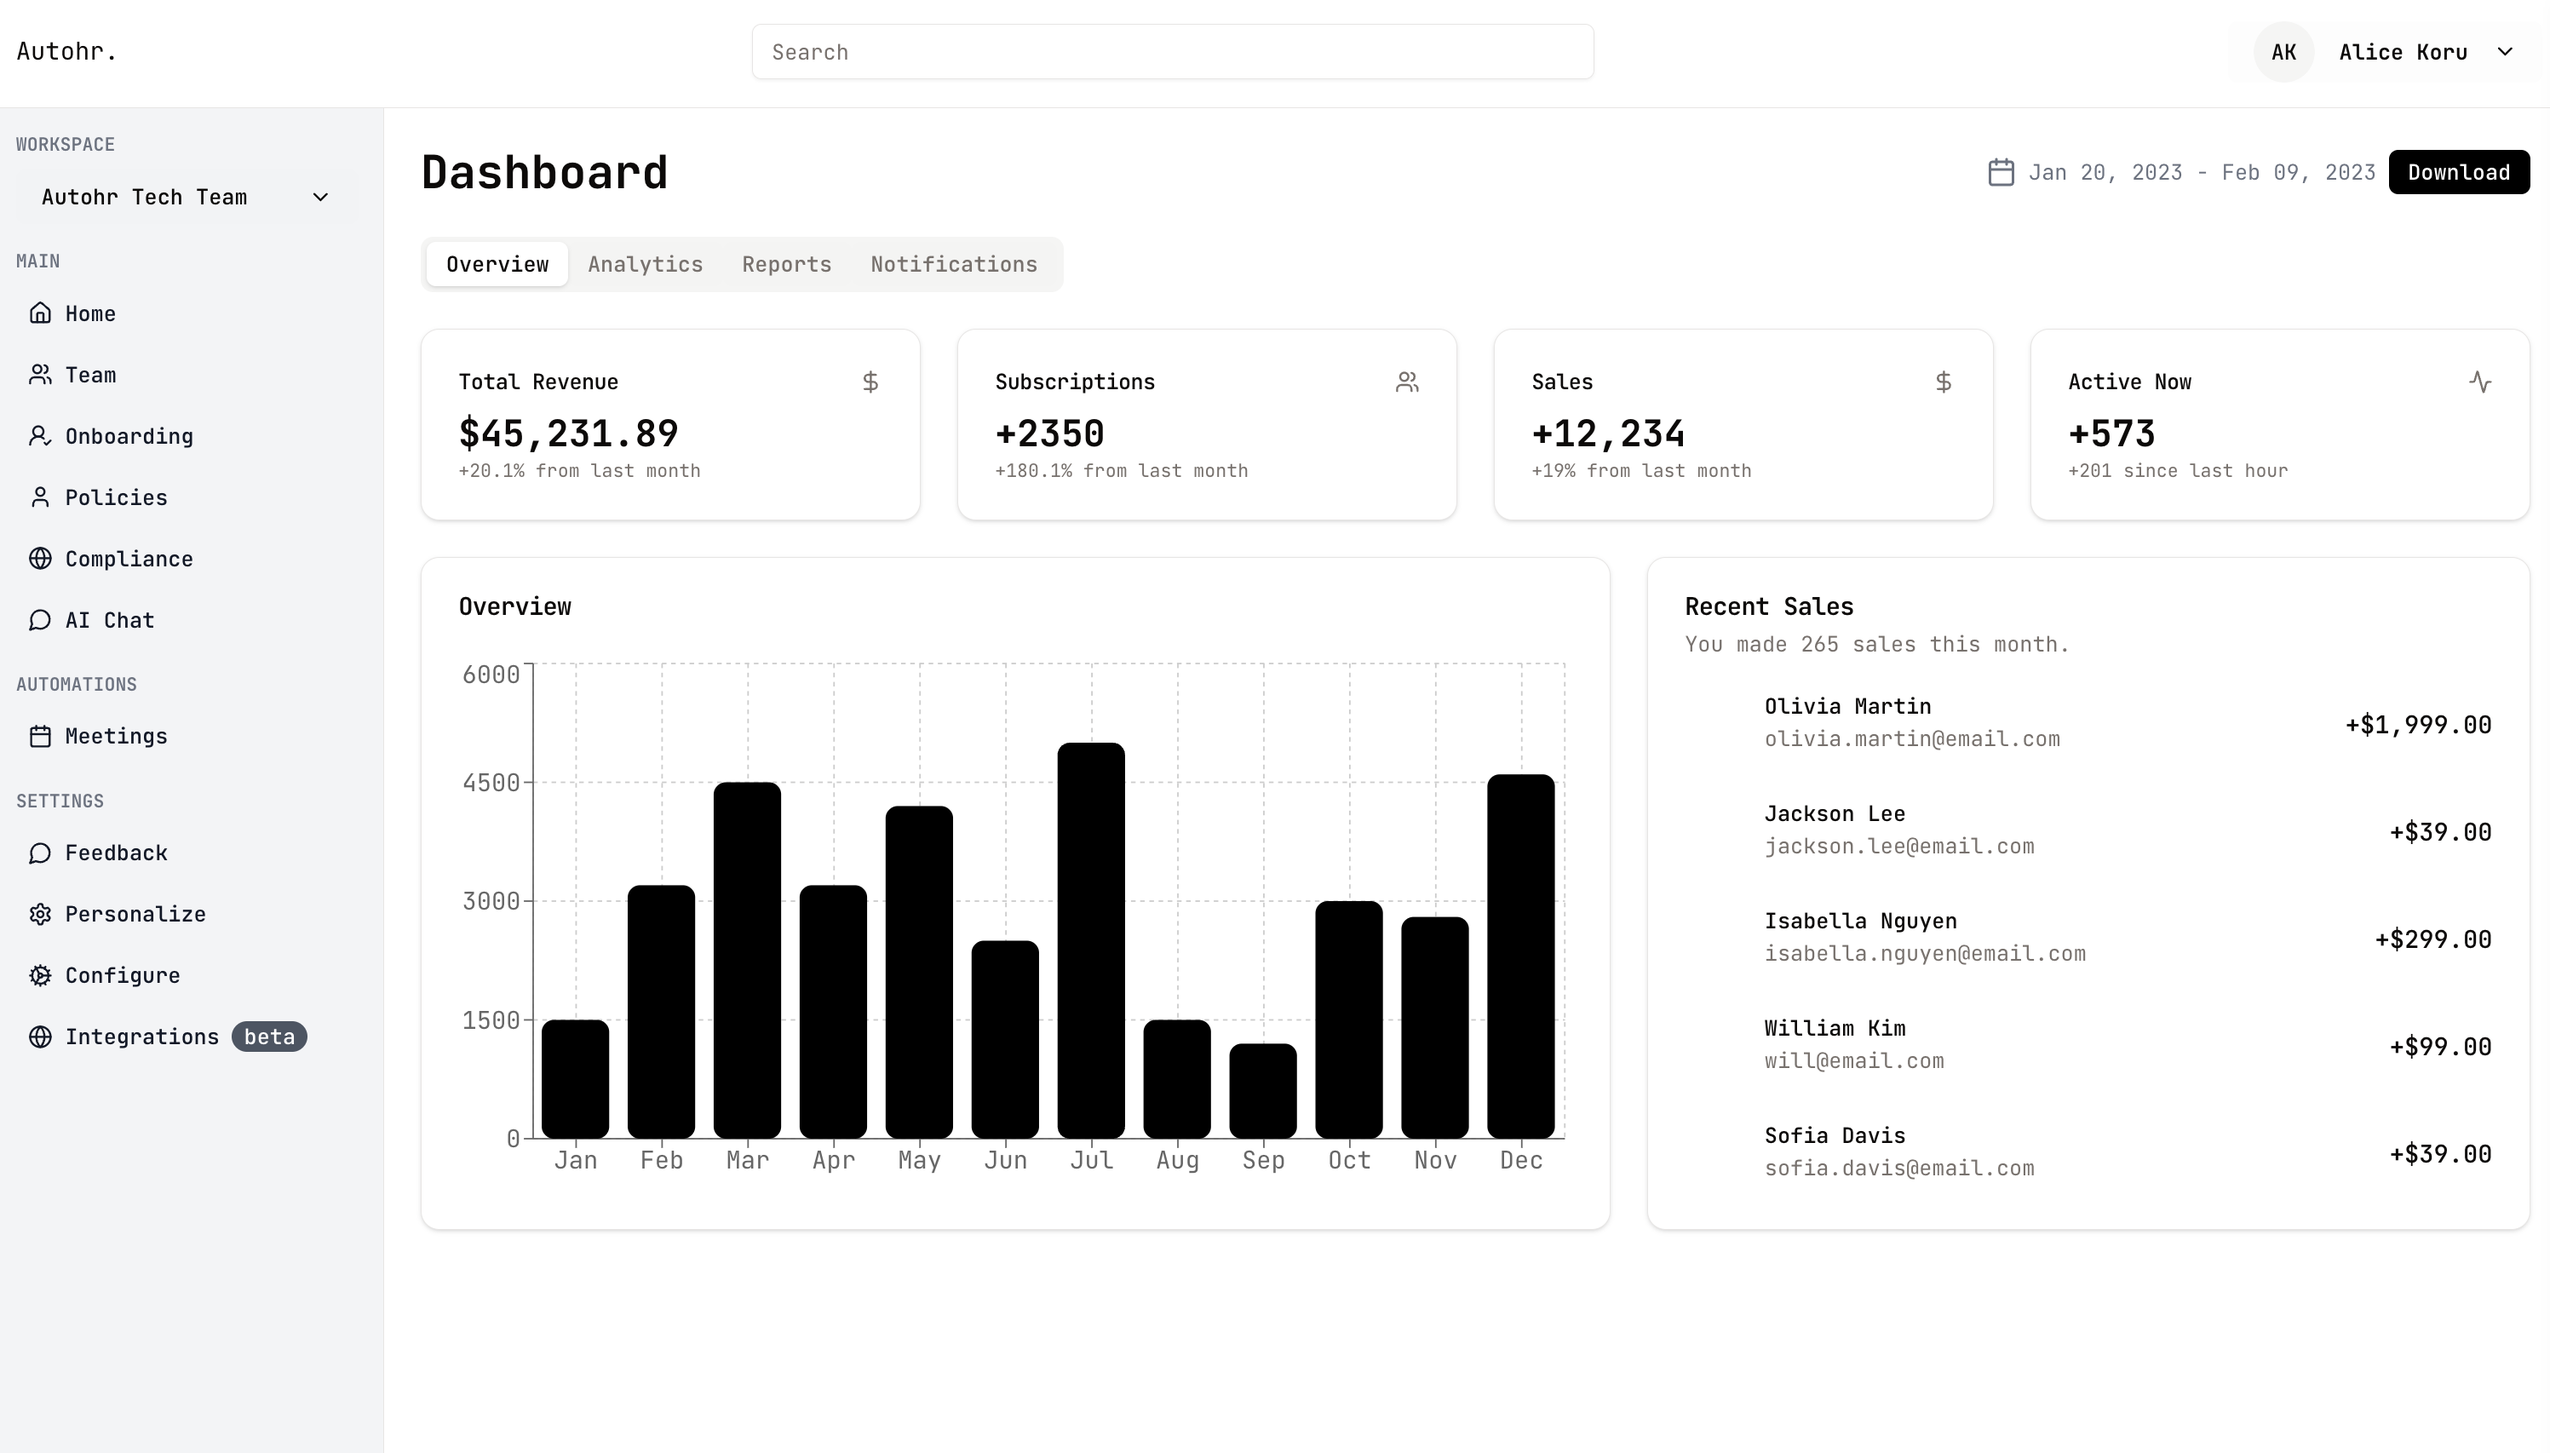
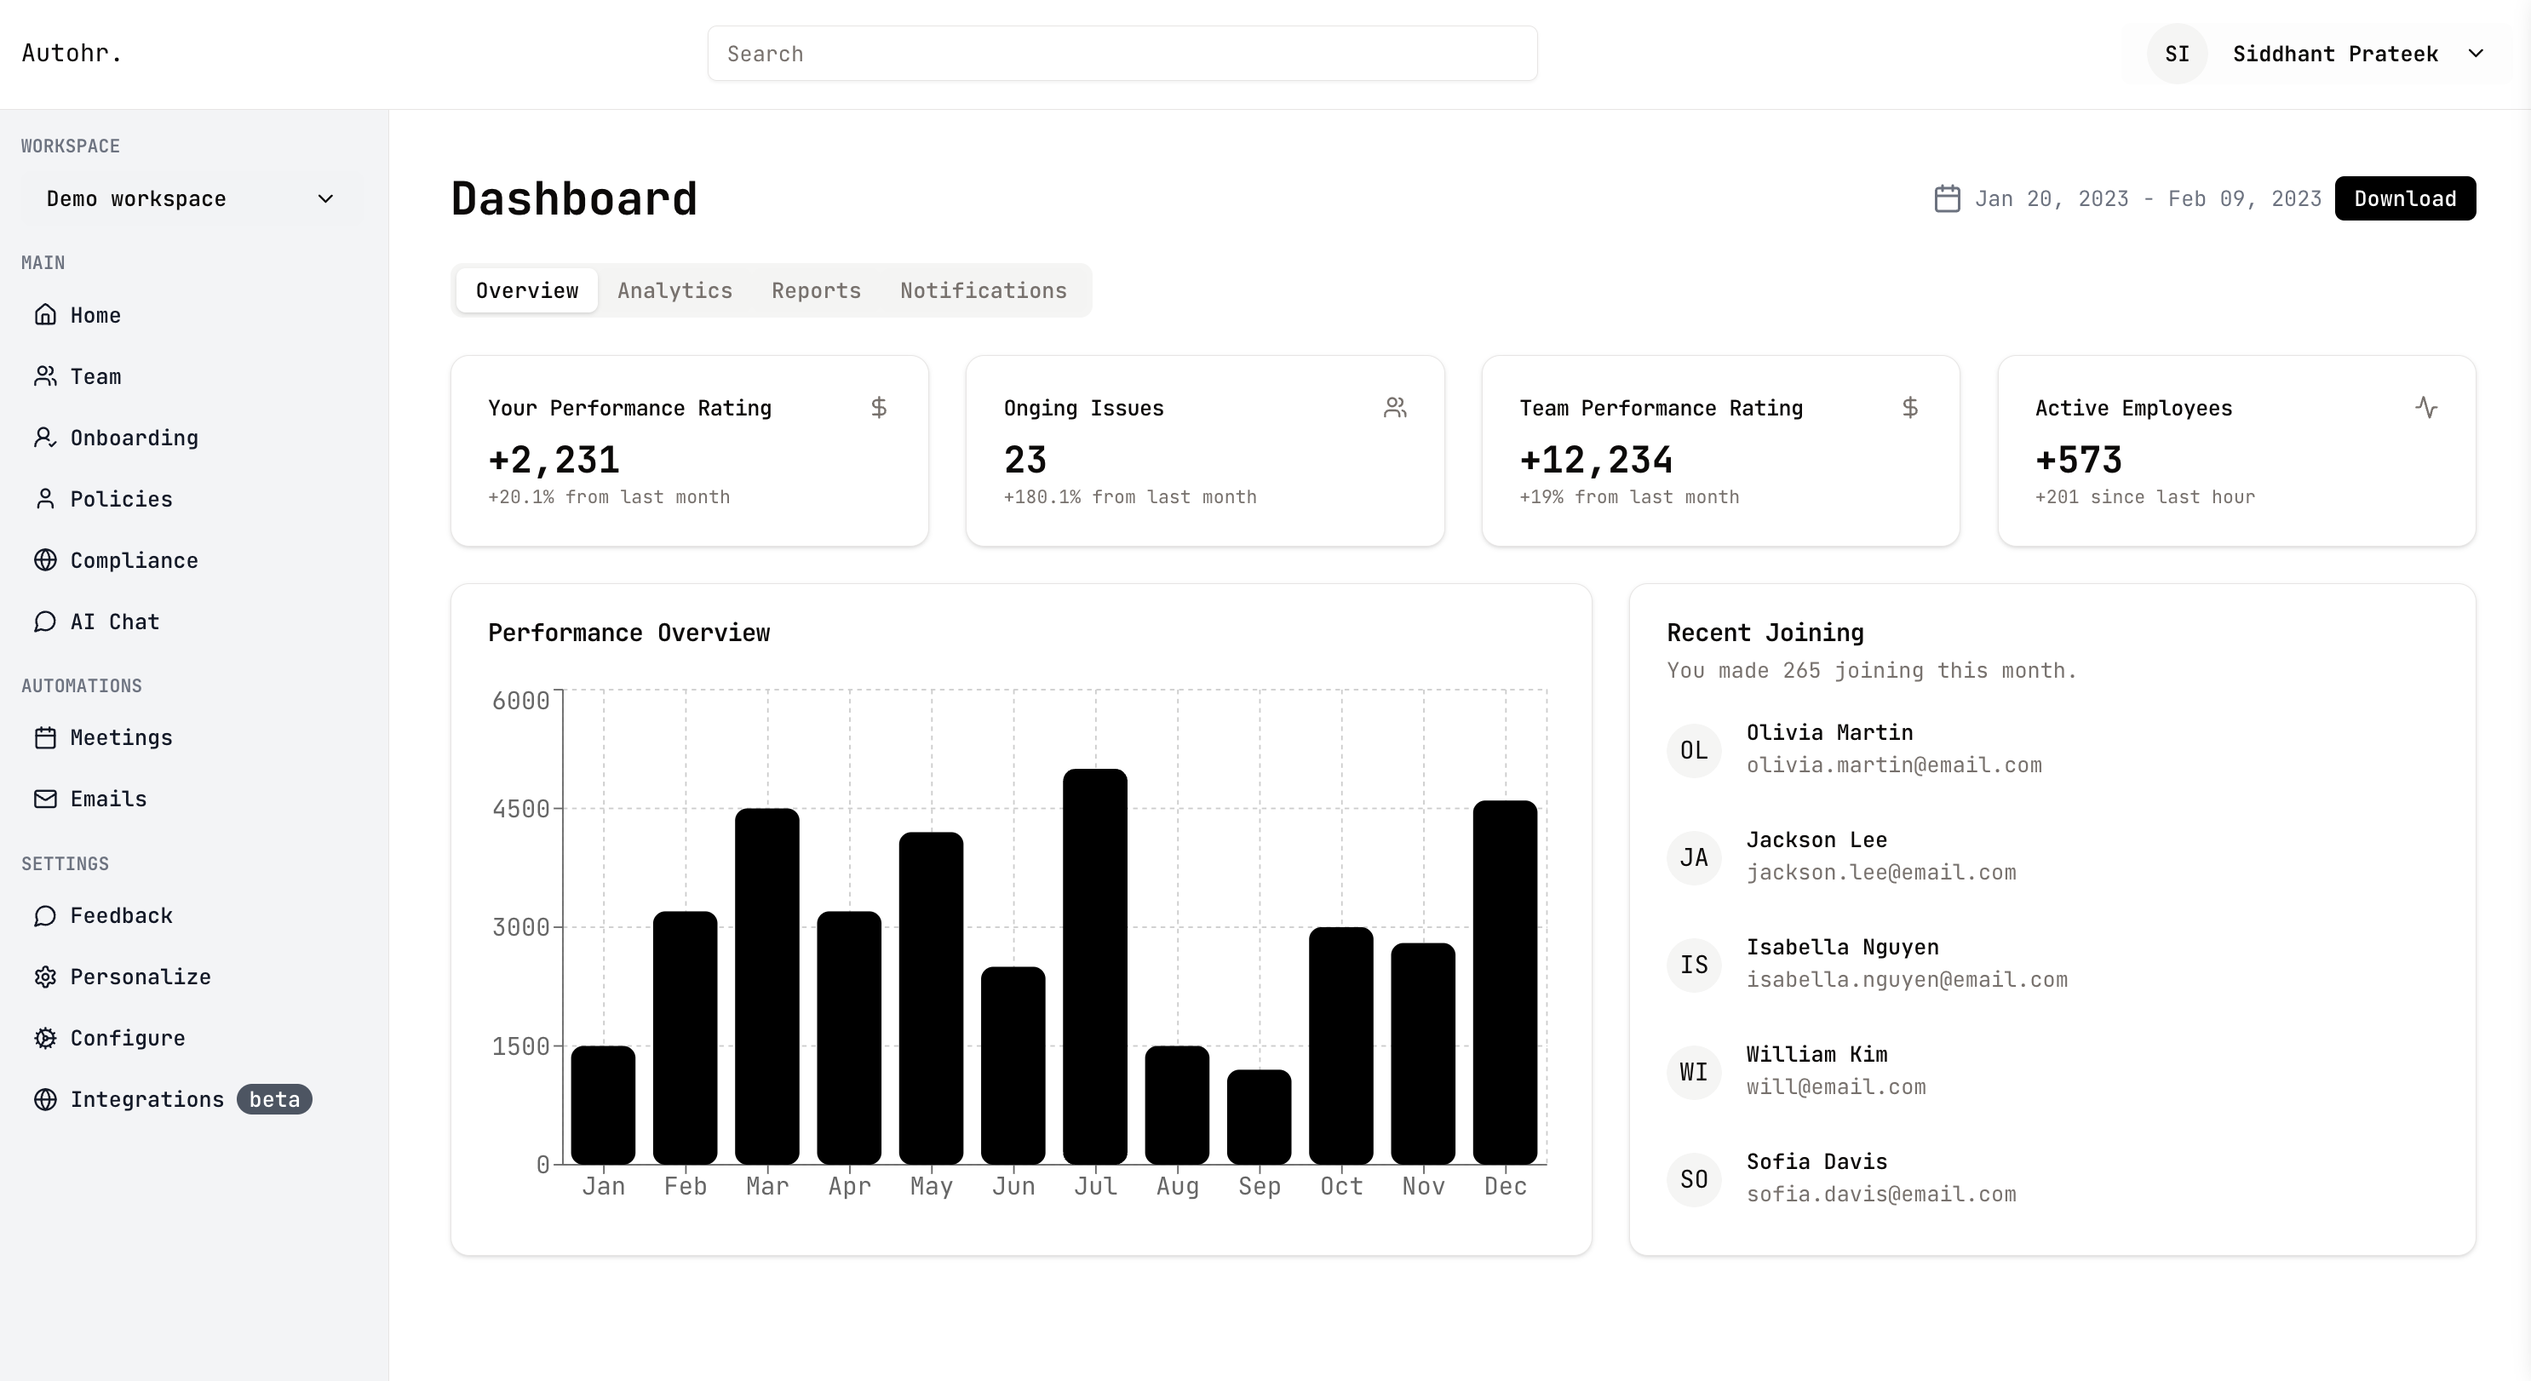
updated assets

diff --git a/frontend/src/components/custom/dashboardIndex/dashboardIndex.tsx b/frontend/src/components/custom/dashboardIndex/dashboardIndex.tsx
@@ -1,9 +1,8 @@
 import { Card, CardContent, CardHeader, CardTitle } from "@/components/ui/card";
 import { Tabs, TabsList, TabsTrigger } from "@/components/ui/tabs";
-import { Avatar } from "@/components/ui/avatar";
 import { BarChart, Bar, XAxis, YAxis, CartesianGrid, ResponsiveContainer } from 'recharts';
 import { CalendarIcon, DollarSign, Users, Activity } from 'lucide-react';
-
+import { Avatar, AvatarFallback, AvatarImage } from "@/components/ui/avatar"
 const data = [
   { name: 'Jan', value: 1500 },
   { name: 'Feb', value: 3200 },
@@ -51,17 +50,17 @@ const DashboardIndex = () => {
       <div className="grid grid-cols-1 md:grid-cols-2 lg:grid-cols-4 gap-6">
         <Card>
           <CardHeader className="flex flex-row items-center justify-between space-y-0 pb-2">
-            <CardTitle className="text-sm font-medium">Total Revenue</CardTitle>
+            <CardTitle className="text-sm font-medium">Your Performance Rating</CardTitle>
             <DollarSign className="h-4 w-4 text-muted-foreground" />
           </CardHeader>
           <CardContent>
-            <div className="text-2xl font-bold">$45,231.89</div>
+            <div className="text-2xl font-bold">+2,231</div>
             <p className="text-xs text-muted-foreground">+20.1% from last month</p>
           </CardContent>
         </Card>
         <Card>
           <CardHeader className="flex flex-row items-center justify-between space-y-0 pb-2">
-            <CardTitle className="text-sm font-medium">Pending Issues</CardTitle>
+            <CardTitle className="text-sm font-medium">Onging Issues</CardTitle>
             <Users className="h-4 w-4 text-muted-foreground" />
           </CardHeader>
           <CardContent>
@@ -71,7 +70,7 @@ const DashboardIndex = () => {
         </Card>
         <Card>
           <CardHeader className="flex flex-row items-center justify-between space-y-0 pb-2">
-            <CardTitle className="text-sm font-medium">Performance Rating</CardTitle>
+            <CardTitle className="text-sm font-medium">Team Performance Rating</CardTitle>
             <DollarSign className="h-4 w-4 text-muted-foreground" />
           </CardHeader>
           <CardContent>
@@ -81,7 +80,7 @@ const DashboardIndex = () => {
         </Card>
         <Card>
           <CardHeader className="flex flex-row items-center justify-between space-y-0 pb-2">
-            <CardTitle className="text-sm font-medium">Active Now</CardTitle>
+            <CardTitle className="text-sm font-medium">Active Employees</CardTitle>
             <Activity className="h-4 w-4 text-muted-foreground" />
           </CardHeader>
           <CardContent>
@@ -94,14 +93,14 @@ const DashboardIndex = () => {
       <div className="grid grid-cols-1 lg:grid-cols-7 gap-6">
         <Card className="col-span-1 lg:col-span-4">
           <CardHeader>
-            <CardTitle>Overview</CardTitle>
+            <CardTitle>Performance Overview</CardTitle>
           </CardHeader>
           <CardContent className="pl-2">
             <ResponsiveContainer width="100%" height={350}>
               <BarChart data={data}>
                 <CartesianGrid strokeDasharray="3 3" />
-                <XAxis 
-                dataKey="name" />
+                <XAxis
+                  dataKey="name" />
                 <YAxis />
                 <Bar dataKey="value" fill="#000" radius={8} />
               </BarChart>
@@ -110,19 +109,22 @@ const DashboardIndex = () => {
         </Card>
         <Card className="col-span-1 lg:col-span-3">
           <CardHeader>
-            <CardTitle>Recent Sales</CardTitle>
-            <p className="text-sm text-muted-foreground">You made 265 sales this month.</p>
+            <CardTitle>Recent Joining</CardTitle>
+            <p className="text-sm text-muted-foreground">You made 265 joining this month.</p>
           </CardHeader>
           <CardContent>
             <div className="space-y-8">
               {recentSales.map((sale, index) => (
                 <div key={index} className="flex items-center">
-                  <Avatar className="h-9 w-9" />
+                  <Avatar className="h-9 w-9">
+                    <AvatarImage src="/placeholder.svg" alt="AK" />
+                    <AvatarFallback>{sale.name.slice(0, 2).toUpperCase()}</AvatarFallback>
+                  </Avatar>
                   <div className="ml-4 space-y-1">
                     <p className="text-sm font-medium leading-none">{sale.name}</p>
                     <p className="text-sm text-muted-foreground">{sale.email}</p>
                   </div>
-                  <div className="ml-auto font-medium">{sale.amount}</div>
+                  {/* <div className="ml-auto font-medium">{sale.amount}</div> */}
                 </div>
               ))}
             </div>
